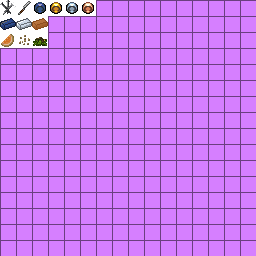
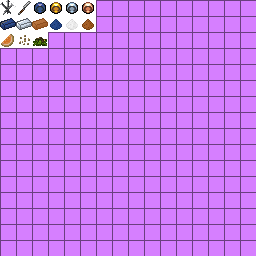
Knife item.

Changed region(s): [[0.1875, 0.0625, 0.375, 0.125]]

diff --git a/Common/si/meansoft/logisticraft/common/items/LCItems.java b/Common/si/meansoft/logisticraft/common/items/LCItems.java
@@ -10,9 +10,11 @@ package si.meansoft.logisticraft.common.items;
 
 import net.minecraft.src.CraftingManager;
 import net.minecraft.src.CreativeTabs;
+import net.minecraft.src.EnumToolMaterial;
 import net.minecraft.src.Item;
 import net.minecraft.src.ItemBlock;
 import net.minecraft.src.ItemStack;
+import net.minecraftforge.common.EnumHelper;
 import net.minecraftforge.oredict.ShapedOreRecipe;
 import cpw.mods.fml.common.registry.GameRegistry;
 import cpw.mods.fml.common.registry.LanguageRegistry;
@@ -27,6 +29,7 @@ public class LCItems {
 	
 	public static Item coins;
 	public static Item dusts;
+	public static Item knife;
 	
 	public static ItemBlockOres ores;
 	
@@ -39,6 +42,9 @@ public class LCItems {
 		coins = new ItemCoins(ItemIDs.coins).setIconCoord(5, 0);
 		
 		dusts = new ItemDusts(ItemIDs.dusts).setIconIndex(19);
+		
+		EnumToolMaterial materialKnife = EnumHelper.addToolMaterial("Knife", 1, 50, 5.0F, 1, 7);
+		knife = new ItemKnife(ItemIDs.knife, materialKnife).setIconCoord(1, 0);
 	}
 	
 	/* Item names and translations */
@@ -46,6 +52,7 @@ public class LCItems {
 		ingotCopper.setItemName("Copper Ingot");
 		ingotSilver.setItemName("Silver Ingot");
 		ingotPlatinum.setItemName("Platinum Ingot");
+		knife.setItemName("Knife");
 		
 		LanguageRegistry.addName(ingotCopper, "Copper Ingot");
 		LanguageRegistry.addName(ingotSilver, "Silver Ingot");
@@ -59,5 +66,7 @@ public class LCItems {
 		LanguageRegistry.addName(new ItemStack(dusts, 1, 0), "Copper dust");
 		LanguageRegistry.addName(new ItemStack(dusts, 1, 1), "Silver dust");
 		LanguageRegistry.addName(new ItemStack(dusts, 1, 2), "Platinum dust");
+		
+		LanguageRegistry.addName(knife, "Knife");
 	}
 }

diff --git a/Common/si/meansoft/logisticraft/common/core/handlers/ConfigHandler.java b/Common/si/meansoft/logisticraft/common/core/handlers/ConfigHandler.java
@@ -39,9 +39,11 @@ public class ConfigHandler {
             
             /* Block */
             BlockIDs.ores = cf.getOrCreateIntProperty("block_ores", CATEGORY_BLOCK, 400).getInt(400);
-            BlockIDs.crate = cf.getOrCreateIntProperty("block_crate", CATEGORY_BLOCK, 401).getInt(401);
-            BlockIDs.playerPlate = cf.getOrCreateIntProperty("block_player_plate", CATEGORY_BLOCK, 402).getInt(402);
-            BlockIDs.coloredGlass = cf.getOrCreateIntProperty("block_colored_glass", CATEGORY_BLOCK, 403).getInt(403);
+            BlockIDs.box = cf.getOrCreateIntProperty("block_box", CATEGORY_BLOCK, 401).getInt(401);
+            BlockIDs.crate = cf.getOrCreateIntProperty("block_crate", CATEGORY_BLOCK, 402).getInt(402);
+            BlockIDs.playerPlate = cf.getOrCreateIntProperty("block_player_plate", CATEGORY_BLOCK, 403).getInt(403);
+            BlockIDs.coloredGlass = cf.getOrCreateIntProperty("block_colored_glass", CATEGORY_BLOCK, 404).getInt(404);
+            BlockIDs.machines = cf.getOrCreateIntProperty("block_machines", CATEGORY_BLOCK, 405).getInt(405);
             
             /* Item */
             ItemIDs.ingotCopper = cf.getOrCreateIntProperty("ingot_copper", Configuration.CATEGORY_ITEM, 1100).getInt();
@@ -50,6 +52,7 @@ public class ConfigHandler {
             
             ItemIDs.dusts = cf.getOrCreateIntProperty("dusts", Configuration.CATEGORY_ITEM, 1103).getInt();
             ItemIDs.coins = cf.getOrCreateIntProperty("coins", Configuration.CATEGORY_ITEM, 1104).getInt();
+            ItemIDs.knife = cf.getOrCreateIntProperty("knife", Configuration.CATEGORY_ITEM, 1105).getInt();
             
         }
         catch (Exception e) {

diff --git a/Common/si/meansoft/logisticraft/common/items/ItemKnife.java b/Common/si/meansoft/logisticraft/common/items/ItemKnife.java
@@ -1,0 +1,37 @@
+/*******************************************************************************
+ * Copyright (c) 2012 Mrbrutal. All rights reserved.
+ * 
+ * @name Logisticraft
+ * @author Mrbrutal
+ * @licence Lesser GNU Public License v3 http://www.gnu.org/licenses/gpl.html
+ ******************************************************************************/
+
+package si.meansoft.logisticraft.common.items;
+
+import si.meansoft.logisticraft.common.blocks.LCBlocks;
+import si.meansoft.logisticraft.common.library.Info;
+import net.minecraft.src.Block;
+import net.minecraft.src.EnumToolMaterial;
+import net.minecraft.src.ItemTool;
+
+public class ItemKnife extends ItemTool {
+	private static Block[] blocksEffectiveAgainst = new Block[] {LCBlocks.crate};
+	
+	public ItemKnife(int par1, EnumToolMaterial toolMaterial) {
+		super(par1, par1, toolMaterial, blocksEffectiveAgainst);
+		setMaxStackSize(1);
+	}
+	
+	public boolean canHarvestBlock(Block block) {
+		if(/*block.blockID == mod_Logisticraft.plantBlock.blockID || */block.blockID == LCBlocks.crate.blockID) {
+			return true;
+		}
+		else {
+			return false;
+		}
+    }
+	
+	public String getTextureFile() {
+		return Info.TEX_ITEM;
+	}
+}

diff --git a/Common/si/meansoft/logisticraft/common/library/ItemIDs.java b/Common/si/meansoft/logisticraft/common/library/ItemIDs.java
@@ -16,5 +16,6 @@ public class ItemIDs {
 	
 	public static int coins;
 	public static int dusts;
+	public static int knife;
 	
 }
